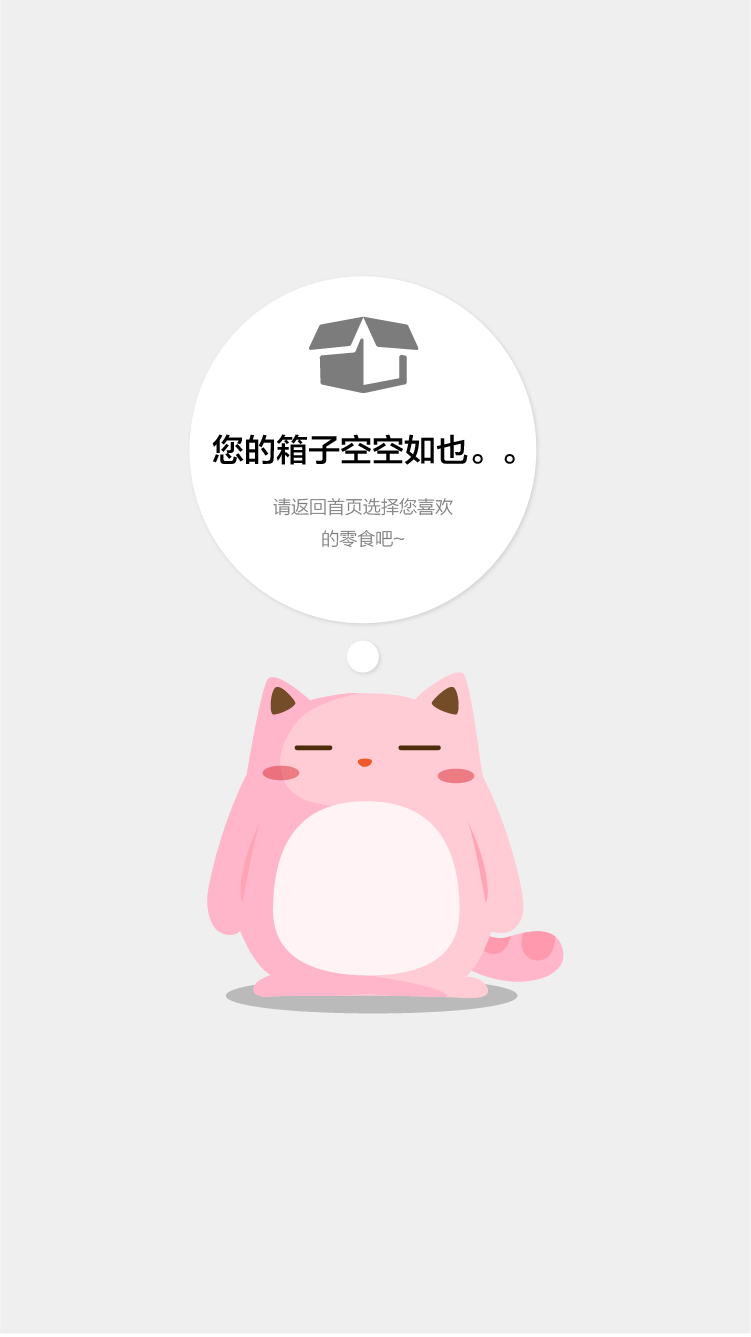
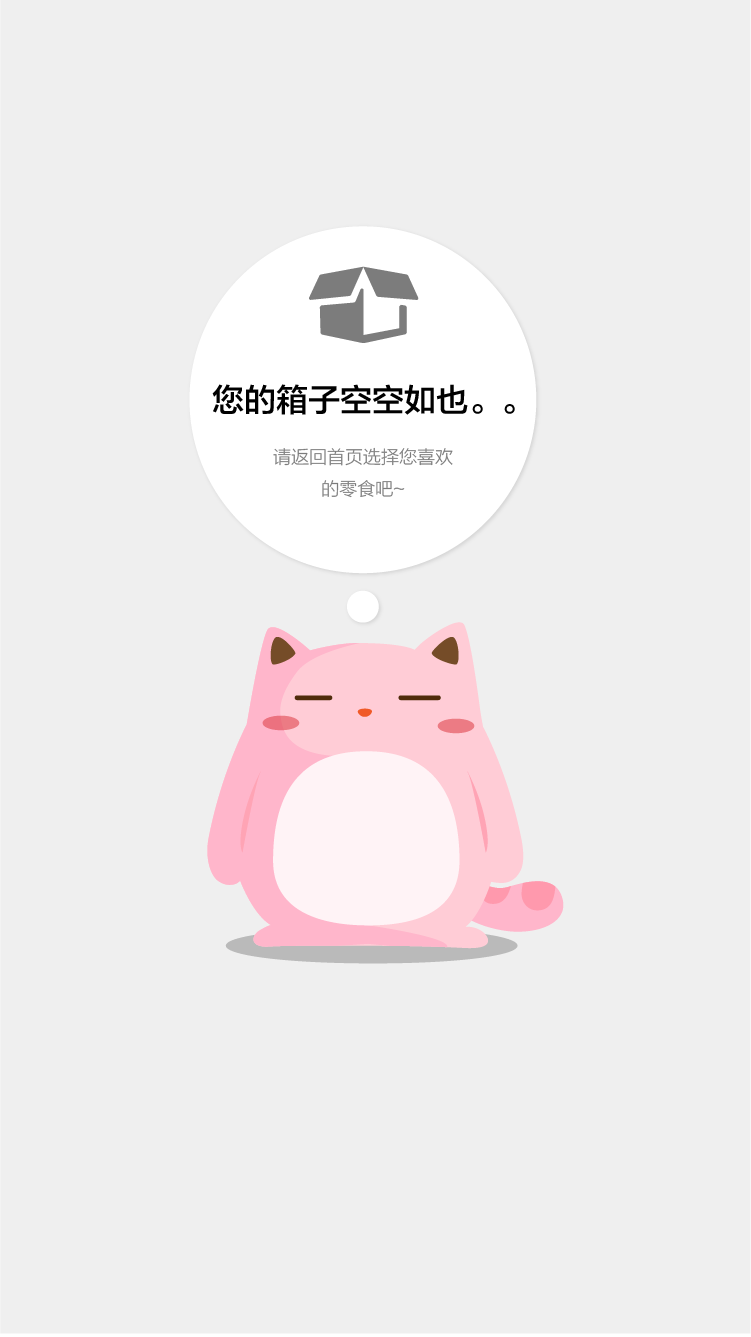
Update empty higtory and empty cart pic, updated background color

diff --git a/SweetfulBox/Components/SboxAbout/SboxAboutContact.js b/SweetfulBox/Components/SboxAbout/SboxAboutContact.js
@@ -57,7 +57,7 @@ export default class About extends Component {
           <SboxHeader title={"联系客服"}
                   goBack={this._goBack}
                   leftButtonText={'<'}/>
-					<View style={{backgroundColor: '#D5D5D5', width: width, height: height, alignItems: 'center'}}>
+				  <View style={{backgroundColor: '#efefef', width: width, height: height, alignItems: 'center'}}>
 						<View style={{justifyContent: 'center',
 							            alignItems: 'center',
 													backgroundColor: 'white',

diff --git a/SweetfulBox/Components/SboxAbout/index.js b/SweetfulBox/Components/SboxAbout/index.js
@@ -138,7 +138,7 @@ export default class About extends Component {
           <SboxHeader title={"设置"}
                   goBack={this._renderGoBackBtn}
                   leftButtonText={'none'}/>
-          <ScrollView style={{backgroundColor: '#D5D5D5'}}>
+					<ScrollView style={{backgroundColor: '#efefef'}}>
               {this._renderLoginOrHistory()}
               <View style={styles.separator}></View>
               {this._renderContact()}
